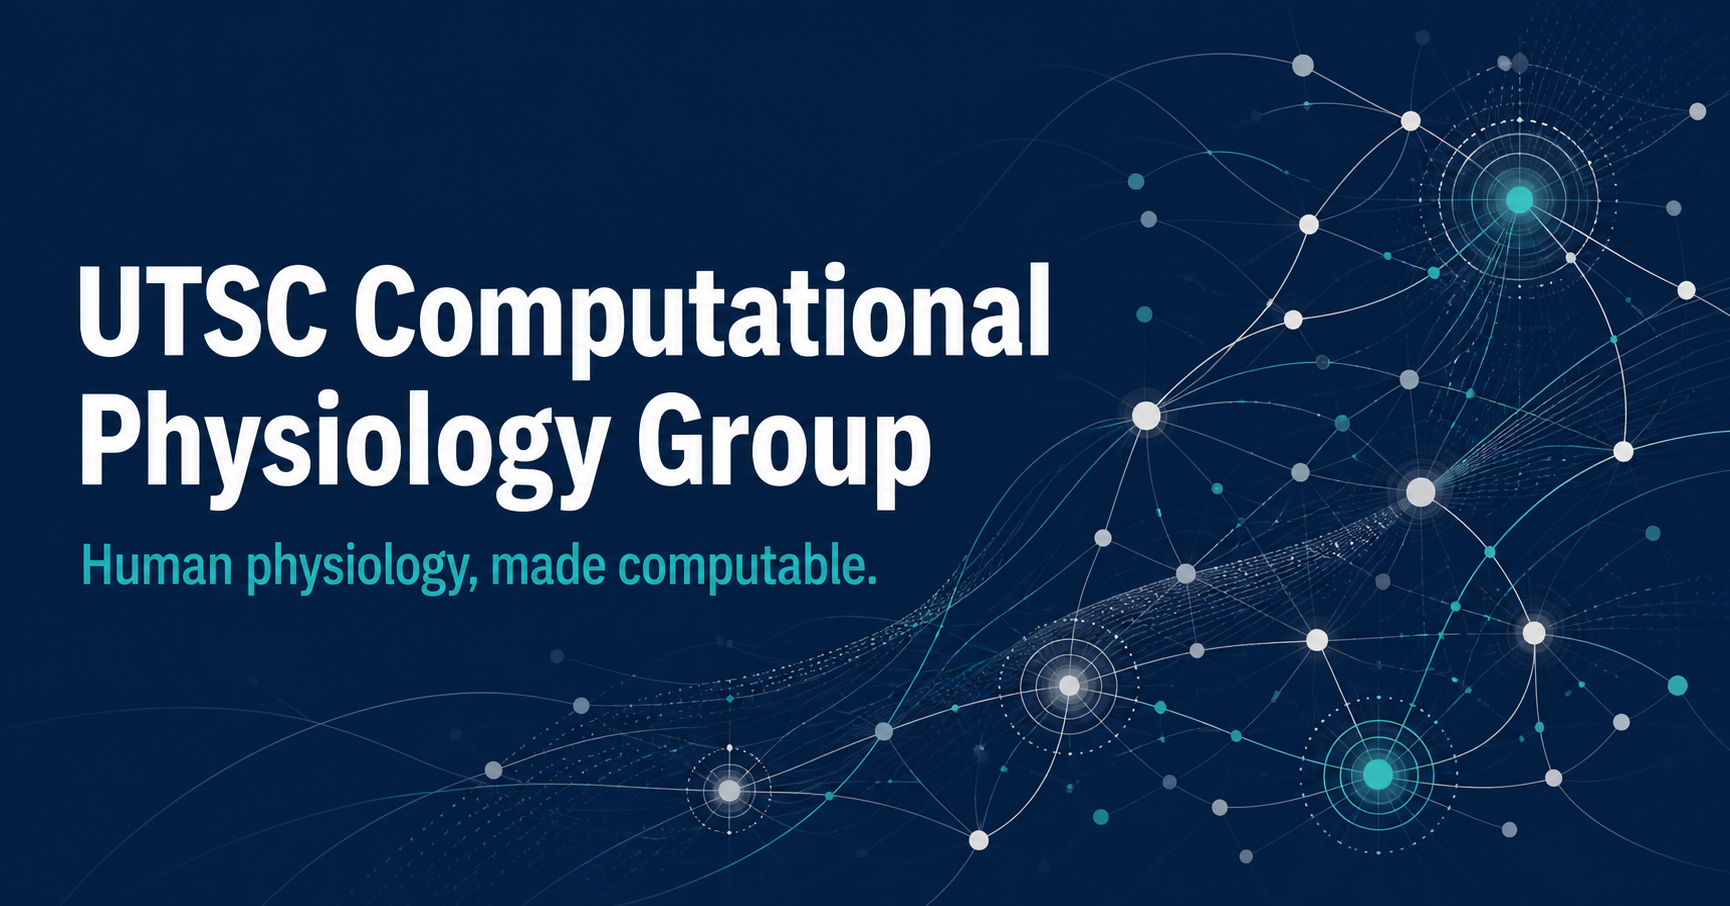
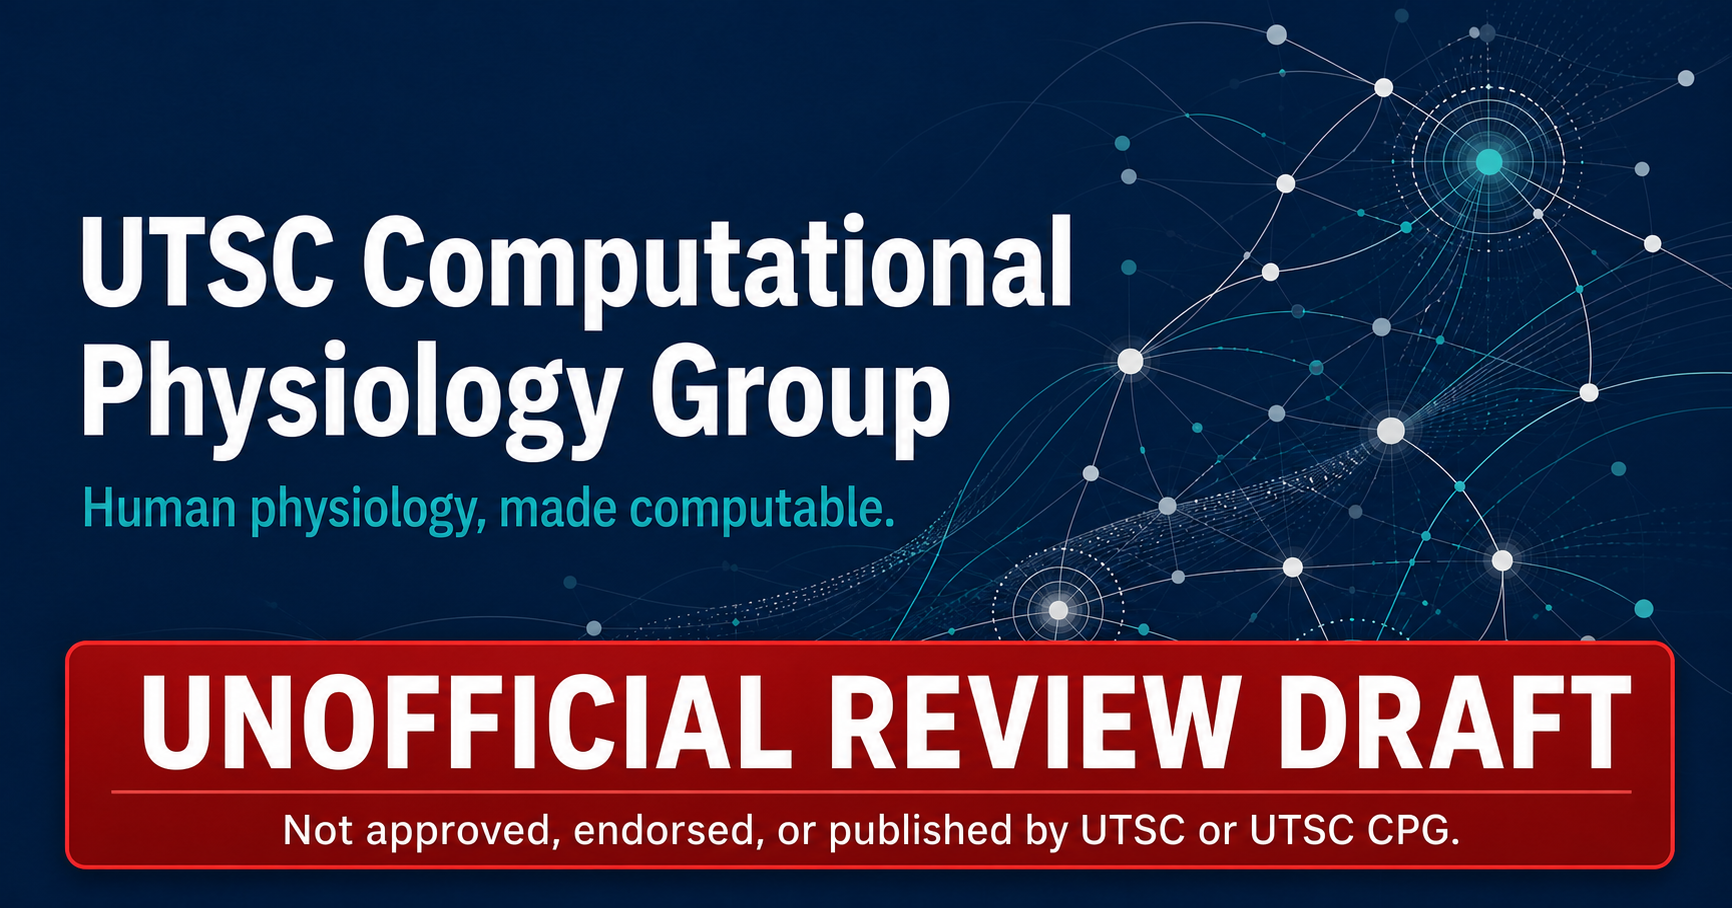
Mark public preview as unofficial draft

diff --git a/app/layout.tsx b/app/layout.tsx
@@ -3,18 +3,19 @@ import "./globals.css";
 
 export const metadata: Metadata = {
   metadataBase: new URL(process.env.NEXT_PUBLIC_SITE_URL ?? "https://utsc-computational-physiology.openai.site"),
-  title: { default: "UTSC Computational Physiology Group", template: "%s | UTSC Computational Physiology Group" },
-  description: "Student-led computational physiology research, teaching, and inclusive HumMod development at the University of Toronto Scarborough.",
+  title: { default: "Unofficial Review Draft | UTSC Computational Physiology Group", template: "%s | Unofficial UTSC CPG Review Draft" },
+  description: "Unofficial website concept for review. Student-led computational physiology research, teaching, and inclusive HumMod development at the University of Toronto Scarborough.",
+  robots: { index: false, follow: false },
   openGraph: {
     type: "website",
-    title: "UTSC Computational Physiology Group",
-    description: "Human physiology, made computable. Student-led whole-body modelling at the University of Toronto Scarborough.",
-    images: [{ url: "/og.png", width: 1730, height: 906, alt: "UTSC Computational Physiology Group — Human physiology, made computable." }],
+    title: "Unofficial Review Draft | UTSC Computational Physiology Group",
+    description: "Website concept for review—not an approved or endorsed UTSC or CPG publication.",
+    images: [{ url: "/og.png", width: 1732, height: 908, alt: "Unofficial review draft for the UTSC Computational Physiology Group website." }],
   },
   twitter: {
     card: "summary_large_image",
-    title: "UTSC Computational Physiology Group",
-    description: "Human physiology, made computable. Student-led whole-body modelling at the University of Toronto Scarborough.",
+    title: "Unofficial Review Draft | UTSC Computational Physiology Group",
+    description: "Website concept for review—not an approved or endorsed UTSC or CPG publication.",
     images: ["/og.png"],
   },
   icons: {
@@ -30,7 +31,15 @@ export default function RootLayout({
 }>) {
   return (
     <html lang="en">
-      <body>{children}</body>
+      <body>
+        <aside className="draft-notice" aria-label="Website status">
+          <div className="content-width">
+            <strong>Unofficial review draft</strong>
+            <span>This website concept has not been approved, endorsed, or published by the University of Toronto Scarborough or the UTSC Computational Physiology Group.</span>
+          </div>
+        </aside>
+        {children}
+      </body>
     </html>
   );
 }

diff --git a/app/globals.css b/app/globals.css
@@ -5,6 +5,10 @@
 html { scroll-behavior:smooth; }
 body { margin:0; background:var(--paper); color:var(--ink); font-family:Inter,ui-sans-serif,-apple-system,BlinkMacSystemFont,"Segoe UI",sans-serif; }
 a { color:inherit; text-decoration:none; }
+.draft-notice { background:#f1c500; color:#10264d; font-size:.76rem; line-height:1.45; }
+.draft-notice .content-width { display:flex; align-items:center; justify-content:center; gap:.7rem 1rem; min-height:44px; padding-block:.55rem; }
+.draft-notice strong { flex:0 0 auto; text-transform:uppercase; letter-spacing:.09em; font-size:.68rem; }
+.draft-notice span { font-weight:650; }
 .hero-shell { min-height:100vh; padding:0 clamp(1.25rem,5vw,5rem) 2rem; overflow:hidden; position:relative; background:radial-gradient(circle at 88% 14%,rgba(166,221,213,.42),transparent 25rem),linear-gradient(180deg,#fff 0%,var(--paper) 100%); }
 .hero-shell::before { content:""; position:absolute; inset:0; pointer-events:none; opacity:.32; background-image:linear-gradient(var(--line) 1px,transparent 1px),linear-gradient(90deg,var(--line) 1px,transparent 1px); background-size:72px 72px; mask-image:linear-gradient(to bottom,black,transparent 72%); }
 .site-header { min-height:112px; display:flex; align-items:center; justify-content:space-between; gap:2rem; position:relative; z-index:2; border-bottom:1px solid var(--line); }
@@ -181,6 +185,7 @@ p { line-height:1.65; }
   .footer-grid { grid-template-columns:1fr; }
 }
 @media (max-width:620px) {
+  .draft-notice .content-width { align-items:flex-start; flex-direction:column; gap:.2rem; }
   .section-heading { align-items:flex-start; flex-direction:column; }
   .page-hero h1,.output-hero h1 { font-size:clamp(3.1rem,16vw,5rem); }
   .page-deck { font-size:1rem; }

diff --git a/components/SiteHeader.tsx b/components/SiteHeader.tsx
@@ -1,5 +1,4 @@
-import Link from "next/link";
-
+/* eslint-disable @next/next/no-html-link-for-pages -- full page loads avoid the deployed client-router navigation failure */
 const links = [
   ["About", "/about"], ["Research", "/research"], ["People", "/people"],
   ["HumMod", "/hummod"], ["Outputs", "/outputs"],
@@ -8,19 +7,19 @@ const links = [
 export function SiteHeader() {
   return (
     <header className="site-header content-width">
-      <Link className="brand" href="/" aria-label="UTSC Computational Physiology Group home">
+      <a className="brand" href="/" aria-label="UTSC Computational Physiology Group home">
         <span className="brand-kicker">University of Toronto Scarborough</span>
         <span className="brand-name">Computational Physiology Group</span>
-      </Link>
+      </a>
       <nav className="desktop-nav" aria-label="Primary navigation">
-        {links.map(([label, href]) => <Link key={href} href={href}>{label}</Link>)}
-        <Link className="nav-cta" href="/join">Join us</Link>
+        {links.map(([label, href]) => <a key={href} href={href}>{label}</a>)}
+        <a className="nav-cta" href="/join">Join us</a>
       </nav>
       <details className="mobile-menu">
         <summary>Menu</summary>
         <nav aria-label="Mobile navigation">
-          {links.map(([label, href]) => <Link key={href} href={href}>{label}</Link>)}
-          <Link href="/join">Join us</Link>
+          {links.map(([label, href]) => <a key={href} href={href}>{label}</a>)}
+          <a href="/join">Join us</a>
         </nav>
       </details>
     </header>

diff --git a/components/SiteFooter.tsx b/components/SiteFooter.tsx
@@ -1,5 +1,3 @@
-import Link from "next/link";
-
 export function SiteFooter() {
   return (
     <footer className="site-footer">
@@ -9,12 +7,12 @@ export function SiteFooter() {
           <p className="footer-title">Computational physiology for discovery, teaching, and inclusion.</p>
         </div>
         <div className="footer-links">
-          <Link href="/research">Research</Link><Link href="/people">People</Link>
-          <Link href="/hummod">HumMod</Link><Link href="/join">Join the group</Link>
+          <a href="/research">Research</a><a href="/people">People</a>
+          <a href="/hummod">HumMod</a><a href="/join">Join the group</a>
         </div>
       </div>
       <div className="content-width legal-row">
-        <p>HumMod is exclusively licensed to HC Simulation, LLC.</p>
+        <p>Unofficial review draft · HumMod is exclusively licensed to HC Simulation, LLC.</p>
         <a href="https://www.umc.edu/" target="_blank" rel="noreferrer">University of Mississippi Medical Center ↗</a>
       </div>
     </footer>
